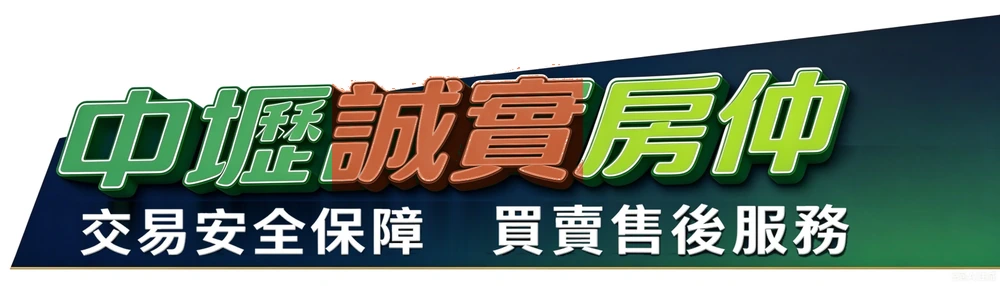
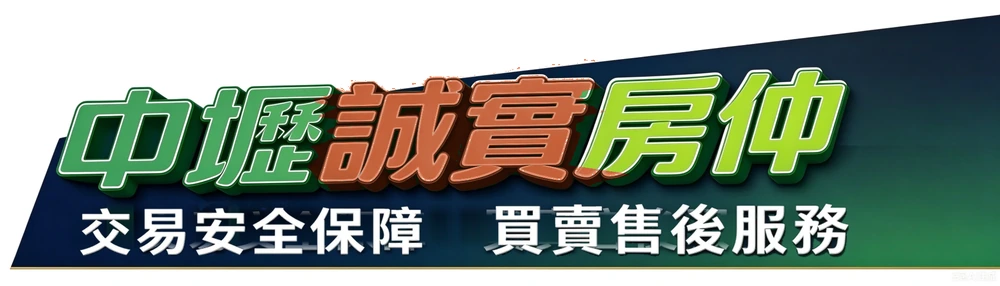
招牌邊界修正（逐列沿字縫換色、副標羽化貼回），團隊照片縮成與店名同高

diff --git a/index.html b/index.html
@@ -42,7 +42,7 @@
   "knowsAbout": ["中古屋買賣", "資產配置", "房屋稅務諮詢", "簡易裝潢"]
 }
 </script>
-<link rel="stylesheet" href="assets/site.css?v=ae3867d4">
+<link rel="stylesheet" href="assets/site.css?v=62b2a8af">
 </head>
 <body class="has-actionbar">
 
@@ -233,7 +233,7 @@
         <p class="team-lead">房子委託給我，同步曝光給團隊 33 家加盟店的買方名單，帶看、成交都更快</p>
       </div>
       <div class="team-grid">
-        <div class="team-col"><b>有愛我的家</b><ul><li class="mine"><img class="brand-logo" src="images/brands/u.png" width="26" height="26" loading="lazy" alt="有巢氏房屋" title="有巢氏房屋">中壢環中加盟店<img class="me-photo" src="images/profile-cut.webp" width="900" height="1350" loading="lazy" alt="林容瑜" title="容瑜在這裡"></li><li><img class="brand-logo" src="images/brands/u.png" width="26" height="26" loading="lazy" alt="有巢氏房屋" title="有巢氏房屋">中壢後站加盟店</li><li><img class="brand-logo" src="images/brands/u.png" width="26" height="26" loading="lazy" alt="有巢氏房屋" title="有巢氏房屋">中壢SOGO加盟店</li><li><img class="brand-logo" src="images/brands/u.png" width="26" height="26" loading="lazy" alt="有巢氏房屋" title="有巢氏房屋">平鎮環南加盟店</li></ul></div>
+        <div class="team-col"><b>有愛我的家</b><ul><li class="mine"><img class="brand-logo" src="images/brands/u.png" width="26" height="26" loading="lazy" alt="有巢氏房屋" title="有巢氏房屋">中壢環中加盟店<img class="me-photo" src="images/me-row.webp" width="101" height="160" loading="lazy" alt="林容瑜" title="容瑜在這裡"></li><li><img class="brand-logo" src="images/brands/u.png" width="26" height="26" loading="lazy" alt="有巢氏房屋" title="有巢氏房屋">中壢後站加盟店</li><li><img class="brand-logo" src="images/brands/u.png" width="26" height="26" loading="lazy" alt="有巢氏房屋" title="有巢氏房屋">中壢SOGO加盟店</li><li><img class="brand-logo" src="images/brands/u.png" width="26" height="26" loading="lazy" alt="有巢氏房屋" title="有巢氏房屋">平鎮環南加盟店</li></ul></div>
         <div class="team-col"><b>內壢我的家</b><ul><li><img class="brand-logo" src="images/brands/u.png" width="26" height="26" loading="lazy" alt="有巢氏房屋" title="有巢氏房屋">內壢環中加盟店</li><li><img class="brand-logo" src="images/brands/y.png" width="26" height="26" loading="lazy" alt="永慶不動產" title="永慶不動產">內壢站前加盟店</li><li><img class="brand-logo" src="images/brands/u.png" width="26" height="26" loading="lazy" alt="有巢氏房屋" title="有巢氏房屋">內壢車站加盟店</li><li><img class="brand-logo" src="images/brands/u.png" width="26" height="26" loading="lazy" alt="有巢氏房屋" title="有巢氏房屋">小檜溪自強加盟店</li><li><img class="brand-logo" src="images/brands/u.png" width="26" height="26" loading="lazy" alt="有巢氏房屋" title="有巢氏房屋">園區龍慈吉富加盟店</li><li><img class="brand-logo" src="images/brands/y.png" width="26" height="26" loading="lazy" alt="永慶不動產" title="永慶不動產">內壢忠孝吉富加盟店</li></ul></div>
         <div class="team-col"><b>桃園我的家</b><ul><li><img class="brand-logo" src="images/brands/y.png" width="26" height="26" loading="lazy" alt="永慶不動產" title="永慶不動產">中路京懋一號加盟店</li><li><img class="brand-logo" src="images/brands/i.png" width="26" height="26" loading="lazy" alt="永義房屋" title="永義房屋">桃園中路吉安加盟店</li><li><img class="brand-logo" src="images/brands/i.png" width="26" height="26" loading="lazy" alt="永義房屋" title="永義房屋">桃園大有寶山加盟店</li><li><img class="brand-logo" src="images/brands/y.png" width="26" height="26" loading="lazy" alt="永慶不動產" title="永慶不動產">桃園藝文同安加盟店</li><li><img class="brand-logo" src="images/brands/t.png" width="26" height="26" loading="lazy" alt="台慶不動產" title="台慶不動產">桃園風禾公園加盟店</li><li><img class="brand-logo" src="images/brands/i.png" width="26" height="26" loading="lazy" alt="永義房屋" title="永義房屋">中正G10捷運加盟店</li><li><img class="brand-logo" src="images/brands/u.png" width="26" height="26" loading="lazy" alt="有巢氏房屋" title="有巢氏房屋">桃園春日莊敬加盟店</li></ul></div>
         <div class="team-col"><b>大中壢我的家</b><ul><li><img class="brand-logo" src="images/brands/y.png" width="26" height="26" loading="lazy" alt="永慶不動產" title="永慶不動產">中壢A22中豐加盟店</li><li><img class="brand-logo" src="images/brands/y.png" width="26" height="26" loading="lazy" alt="永慶不動產" title="永慶不動產">體育園區云賀加盟店</li></ul></div>

diff --git a/listings/ug0972191/index.html b/listings/ug0972191/index.html
@@ -18,7 +18,7 @@
 <link rel="preconnect" href="https://fonts.googleapis.com">
 <link rel="preconnect" href="https://fonts.gstatic.com" crossorigin>
 <link rel="stylesheet" href="https://fonts.googleapis.com/css2?family=Noto+Sans+TC:wght@400;500;700;900&family=Noto+Serif+TC:wght@600;900&display=swap">
-<link rel="stylesheet" href="../../assets/site.css?v=ae3867d4">
+<link rel="stylesheet" href="../../assets/site.css?v=62b2a8af">
 <script type="application/ld+json">{"@context": "https://schema.org", "@type": "RealEstateListing", "name": "近林森國小 7米大面寬大地坪邊間透天", "url": "https://wufengfs95.github.io/linrongyu/listings/ug0972191/", "image": ["https://wufengfs95.github.io/linrongyu/listings/ug0972191/photo-01.jpg", "https://wufengfs95.github.io/linrongyu/listings/ug0972191/photo-02.jpg", "https://wufengfs95.github.io/linrongyu/listings/ug0972191/photo-03.jpg", "https://wufengfs95.github.io/linrongyu/listings/ug0972191/photo-04.jpg", "https://wufengfs95.github.io/linrongyu/listings/ug0972191/photo-05.jpg", "https://wufengfs95.github.io/linrongyu/listings/ug0972191/photo-06.jpg", "https://wufengfs95.github.io/linrongyu/listings/ug0972191/photo-07.jpg", "https://wufengfs95.github.io/linrongyu/listings/ug0972191/photo-08.jpg", "https://wufengfs95.github.io/linrongyu/listings/ug0972191/photo-09.jpg", "https://wufengfs95.github.io/linrongyu/listings/ug0972191/photo-10.jpg", "https://wufengfs95.github.io/linrongyu/listings/ug0972191/photo-11.jpg", "https://wufengfs95.github.io/linrongyu/listings/ug0972191/photo-12.jpg", "https://wufengfs95.github.io/linrongyu/listings/ug0972191/photo-13.jpg", "https://wufengfs95.github.io/linrongyu/listings/ug0972191/photo-14.jpg"], "datePosted": "2026-09-22", "description": "位在中壢後站體育園區週邊，走路就到林森國小。 邊間、7 米大面寬，通風採光都好；門前路寬約 8 米，車子進出方便。 地坪 27.22 坪，4 房 3 衛，空間大好規劃 權狀 35.35 坪，另有增建約 20 坪（以現場為準） 有天然瓦斯管線…", "offers": {"@type": "Offer", "priceCurrency": "TWD", "price": 17880000, "availability": "https://schema.org/InStock"}, "author": {"@type": "RealEstateAgent", "name": "林容瑜", "url": "https://wufengfs95.github.io/linrongyu/", "telephone": "+886-973-263-569"}}</script>
 <script type="application/ld+json">{"@context": "https://schema.org", "@type": "BreadcrumbList", "itemListElement": [{"@type": "ListItem", "position": 1, "name": "首頁", "item": "https://wufengfs95.github.io/linrongyu/"}, {"@type": "ListItem", "position": 2, "name": "我接的案子", "item": "https://wufengfs95.github.io/linrongyu/listings/"}, {"@type": "ListItem", "position": 3, "name": "近林森國小 7米大面寬大地坪邊間透天", "item": "https://wufengfs95.github.io/linrongyu/listings/ug0972191/"}]}</script>
 </head>

diff --git a/listings/ug1139742/index.html b/listings/ug1139742/index.html
@@ -18,7 +18,7 @@
 <link rel="preconnect" href="https://fonts.googleapis.com">
 <link rel="preconnect" href="https://fonts.gstatic.com" crossorigin>
 <link rel="stylesheet" href="https://fonts.googleapis.com/css2?family=Noto+Sans+TC:wght@400;500;700;900&family=Noto+Serif+TC:wght@600;900&display=swap">
-<link rel="stylesheet" href="../../assets/site.css?v=ae3867d4">
+<link rel="stylesheet" href="../../assets/site.css?v=62b2a8af">
 <script type="application/ld+json">{"@context": "https://schema.org", "@type": "RealEstateListing", "name": "湖口老街・湖口火車站 大地坪雙車位美墅", "url": "https://wufengfs95.github.io/linrongyu/listings/ug1139742/", "image": ["https://wufengfs95.github.io/linrongyu/listings/ug1139742/photo-01.jpg", "https://wufengfs95.github.io/linrongyu/listings/ug1139742/photo-02.jpg", "https://wufengfs95.github.io/linrongyu/listings/ug1139742/photo-03.jpg", "https://wufengfs95.github.io/linrongyu/listings/ug1139742/photo-04.jpg", "https://wufengfs95.github.io/linrongyu/listings/ug1139742/photo-05.jpg", "https://wufengfs95.github.io/linrongyu/listings/ug1139742/photo-06.jpg", "https://wufengfs95.github.io/linrongyu/listings/ug1139742/photo-07.jpg", "https://wufengfs95.github.io/linrongyu/listings/ug1139742/photo-08.jpg", "https://wufengfs95.github.io/linrongyu/listings/ug1139742/photo-09.jpg", "https://wufengfs95.github.io/linrongyu/listings/ug1139742/photo-10.jpg", "https://wufengfs95.github.io/linrongyu/listings/ug1139742/photo-11.jpg", "https://wufengfs95.github.io/linrongyu/listings/ug1139742/photo-12.jpg", "https://wufengfs95.github.io/linrongyu/listings/ug1139742/photo-13.jpg"], "datePosted": "2026-09-22", "description": "走路就到湖口老街，離湖口火車站也近，生活機能成熟。 別墅設計、空間寬敞，還有室內雙車位，家裡車多也停得下。 B1 到 4 樓，4 房 4 衛，一家人住得開 4 樓整層開放空間加大露台，可以當起居室或種花 學區湖口國小，附近有湖口公有零售市場…", "offers": {"@type": "Offer", "priceCurrency": "TWD", "price": 10880000, "availability": "https://schema.org/InStock"}, "author": {"@type": "RealEstateAgent", "name": "林容瑜", "url": "https://wufengfs95.github.io/linrongyu/", "telephone": "+886-973-263-569"}}</script>
 <script type="application/ld+json">{"@context": "https://schema.org", "@type": "BreadcrumbList", "itemListElement": [{"@type": "ListItem", "position": 1, "name": "首頁", "item": "https://wufengfs95.github.io/linrongyu/"}, {"@type": "ListItem", "position": 2, "name": "我接的案子", "item": "https://wufengfs95.github.io/linrongyu/listings/"}, {"@type": "ListItem", "position": 3, "name": "湖口老街・湖口火車站 大地坪雙車位美墅", "item": "https://wufengfs95.github.io/linrongyu/listings/ug1139742/"}]}</script>
 </head>

diff --git a/listings/ua0382887/index.html b/listings/ua0382887/index.html
@@ -18,7 +18,7 @@
 <link rel="preconnect" href="https://fonts.googleapis.com">
 <link rel="preconnect" href="https://fonts.gstatic.com" crossorigin>
 <link rel="stylesheet" href="https://fonts.googleapis.com/css2?family=Noto+Sans+TC:wght@400;500;700;900&family=Noto+Serif+TC:wght@600;900&display=swap">
-<link rel="stylesheet" href="../../assets/site.css?v=ae3867d4">
+<link rel="stylesheet" href="../../assets/site.css?v=62b2a8af">
 <script type="application/ld+json">{"@context": "https://schema.org", "@type": "RealEstateListing", "name": "未來捷運站・體育園區・林森國小 電梯3改2房車", "url": "https://wufengfs95.github.io/linrongyu/listings/ua0382887/", "image": ["https://wufengfs95.github.io/linrongyu/listings/ua0382887/photo-01.jpg", "https://wufengfs95.github.io/linrongyu/listings/ua0382887/photo-02.jpg", "https://wufengfs95.github.io/linrongyu/listings/ua0382887/photo-03.jpg", "https://wufengfs95.github.io/linrongyu/listings/ua0382887/photo-04.jpg", "https://wufengfs95.github.io/linrongyu/listings/ua0382887/photo-05.jpg", "https://wufengfs95.github.io/linrongyu/listings/ua0382887/photo-06.jpg", "https://wufengfs95.github.io/linrongyu/listings/ua0382887/photo-07.jpg", "https://wufengfs95.github.io/linrongyu/listings/ua0382887/photo-08.jpg", "https://wufengfs95.github.io/linrongyu/listings/ua0382887/photo-09.jpg", "https://wufengfs95.github.io/linrongyu/listings/ua0382887/photo-10.jpg", "https://wufengfs95.github.io/linrongyu/listings/ua0382887/photo-11.jpg"], "datePosted": "2026-09-22", "description": "位在中壢後站體育園區週邊，走路就到林森國小，未來捷運站也在附近。 6 樓視野好、採光佳，社區門口 8 米路，車子進出方便。 電梯大樓，坡道平面車位在 B1 原本規劃 3 房，預售時建商客變成 2 大房，現況另有 1 間木隔間 一手屋主、沒有…", "offers": {"@type": "Offer", "priceCurrency": "TWD", "price": 9380000, "availability": "https://schema.org/InStock"}, "author": {"@type": "RealEstateAgent", "name": "林容瑜", "url": "https://wufengfs95.github.io/linrongyu/", "telephone": "+886-973-263-569"}}</script>
 <script type="application/ld+json">{"@context": "https://schema.org", "@type": "BreadcrumbList", "itemListElement": [{"@type": "ListItem", "position": 1, "name": "首頁", "item": "https://wufengfs95.github.io/linrongyu/"}, {"@type": "ListItem", "position": 2, "name": "我接的案子", "item": "https://wufengfs95.github.io/linrongyu/listings/"}, {"@type": "ListItem", "position": 3, "name": "未來捷運站・體育園區・林森國小 電梯3改2房車", "item": "https://wufengfs95.github.io/linrongyu/listings/ua0382887/"}]}</script>
 </head>

diff --git a/listings/ug1036209/index.html b/listings/ug1036209/index.html
@@ -18,7 +18,7 @@
 <link rel="preconnect" href="https://fonts.googleapis.com">
 <link rel="preconnect" href="https://fonts.gstatic.com" crossorigin>
 <link rel="stylesheet" href="https://fonts.googleapis.com/css2?family=Noto+Sans+TC:wght@400;500;700;900&family=Noto+Serif+TC:wght@600;900&display=swap">
-<link rel="stylesheet" href="../../assets/site.css?v=ae3867d4">
+<link rel="stylesheet" href="../../assets/site.css?v=62b2a8af">
 <script type="application/ld+json">{"@context": "https://schema.org", "@type": "RealEstateListing", "name": "近未來平鎮火車站・中悅桂冠 大空間住辦＋平面車位", "url": "https://wufengfs95.github.io/linrongyu/listings/ug1036209/", "image": ["https://wufengfs95.github.io/linrongyu/listings/ug1036209/photo-01.jpg", "https://wufengfs95.github.io/linrongyu/listings/ug1036209/photo-02.jpg", "https://wufengfs95.github.io/linrongyu/listings/ug1036209/photo-03.jpg", "https://wufengfs95.github.io/linrongyu/listings/ug1036209/photo-04.jpg", "https://wufengfs95.github.io/linrongyu/listings/ug1036209/photo-05.jpg", "https://wufengfs95.github.io/linrongyu/listings/ug1036209/photo-06.jpg", "https://wufengfs95.github.io/linrongyu/listings/ug1036209/photo-07.jpg", "https://wufengfs95.github.io/linrongyu/listings/ug1036209/photo-08.jpg", "https://wufengfs95.github.io/linrongyu/listings/ug1036209/photo-09.jpg"], "datePosted": "2026-09-22", "description": "室內空間大、隔間少，當住家或工作室都好用。 汽車位就在電梯口旁，下車就能搭電梯。 附近是未來平鎮火車站，重大建設陸續啟動。 電梯大樓、警衛管理，住得安心 門前道路寬約 20 米、雙向車道，車流順暢 目前出租中，適合置產收租 管理費每月 2,…", "offers": {"@type": "Offer", "priceCurrency": "TWD", "price": 12480000, "availability": "https://schema.org/InStock"}, "author": {"@type": "RealEstateAgent", "name": "林容瑜", "url": "https://wufengfs95.github.io/linrongyu/", "telephone": "+886-973-263-569"}}</script>
 <script type="application/ld+json">{"@context": "https://schema.org", "@type": "BreadcrumbList", "itemListElement": [{"@type": "ListItem", "position": 1, "name": "首頁", "item": "https://wufengfs95.github.io/linrongyu/"}, {"@type": "ListItem", "position": 2, "name": "我接的案子", "item": "https://wufengfs95.github.io/linrongyu/listings/"}, {"@type": "ListItem", "position": 3, "name": "近未來平鎮火車站・中悅桂冠 大空間住辦＋平面車位", "item": "https://wufengfs95.github.io/linrongyu/listings/ug1036209/"}]}</script>
 </head>

diff --git a/listings/hg0183320/index.html b/listings/hg0183320/index.html
@@ -18,7 +18,7 @@
 <link rel="preconnect" href="https://fonts.googleapis.com">
 <link rel="preconnect" href="https://fonts.gstatic.com" crossorigin>
 <link rel="stylesheet" href="https://fonts.googleapis.com/css2?family=Noto+Sans+TC:wght@400;500;700;900&family=Noto+Serif+TC:wght@600;900&display=swap">
-<link rel="stylesheet" href="../../assets/site.css?v=ae3867d4">
+<link rel="stylesheet" href="../../assets/site.css?v=62b2a8af">
 <script type="application/ld+json">{"@context": "https://schema.org", "@type": "RealEstateListing", "name": "近青埔・中壢市區・中央大學 千坪大地坪農地", "url": "https://wufengfs95.github.io/linrongyu/listings/hg0183320/", "image": ["https://wufengfs95.github.io/linrongyu/listings/hg0183320/photo-01.jpg", "https://wufengfs95.github.io/linrongyu/listings/hg0183320/photo-02.jpg", "https://wufengfs95.github.io/linrongyu/listings/hg0183320/photo-03.jpg", "https://wufengfs95.github.io/linrongyu/listings/hg0183320/photo-04.jpg", "https://wufengfs95.github.io/linrongyu/listings/hg0183320/photo-05.jpg"], "datePosted": "2026-09-22", "description": "1,733 坪大面積農地，面寬約 64～111 米、深度約 52～75 米，地勢平坦、水源豐富。 位在中壢區內厝里，往中壢市區、中央大學、青埔都方便。 特定農業區（農牧用地），適合自用或投資 旁邊有排水溝，排水好、不容易積水", "offers": {"@type": "Offer", "priceCurrency": "TWD", "price": 39980000, "availability": "https://schema.org/InStock"}, "author": {"@type": "RealEstateAgent", "name": "林容瑜", "url": "https://wufengfs95.github.io/linrongyu/", "telephone": "+886-973-263-569"}}</script>
 <script type="application/ld+json">{"@context": "https://schema.org", "@type": "BreadcrumbList", "itemListElement": [{"@type": "ListItem", "position": 1, "name": "首頁", "item": "https://wufengfs95.github.io/linrongyu/"}, {"@type": "ListItem", "position": 2, "name": "我接的案子", "item": "https://wufengfs95.github.io/linrongyu/listings/"}, {"@type": "ListItem", "position": 3, "name": "近青埔・中壢市區・中央大學 千坪大地坪農地", "item": "https://wufengfs95.github.io/linrongyu/listings/hg0183320/"}]}</script>
 </head>

diff --git a/listings/ha0106526/index.html b/listings/ha0106526/index.html
@@ -18,7 +18,7 @@
 <link rel="preconnect" href="https://fonts.googleapis.com">
 <link rel="preconnect" href="https://fonts.gstatic.com" crossorigin>
 <link rel="stylesheet" href="https://fonts.googleapis.com/css2?family=Noto+Sans+TC:wght@400;500;700;900&family=Noto+Serif+TC:wght@600;900&display=swap">
-<link rel="stylesheet" href="../../assets/site.css?v=ae3867d4">
+<link rel="stylesheet" href="../../assets/site.css?v=62b2a8af">
 <script type="application/ld+json">{"@context": "https://schema.org", "@type": "RealEstateListing", "name": "近向陽農場 地勢平坦方正美農地", "url": "https://wufengfs95.github.io/linrongyu/listings/ha0106526/", "image": ["https://wufengfs95.github.io/linrongyu/listings/ha0106526/photo-01.jpg", "https://wufengfs95.github.io/linrongyu/listings/ha0106526/photo-02.jpg", "https://wufengfs95.github.io/linrongyu/listings/ha0106526/photo-03.jpg"], "datePosted": "2026-09-22", "description": "605 坪方正農地，面寬約 19.6 米、深度約 96 米，地勢平坦，好規劃、利用率高。 旁邊有排水溝，排水好、不容易積水。 特定農業區，適合自用耕作或置產 離觀音區向陽農場很近", "offers": {"@type": "Offer", "priceCurrency": "TWD", "price": 9680000, "availability": "https://schema.org/InStock"}, "author": {"@type": "RealEstateAgent", "name": "林容瑜", "url": "https://wufengfs95.github.io/linrongyu/", "telephone": "+886-973-263-569"}}</script>
 <script type="application/ld+json">{"@context": "https://schema.org", "@type": "BreadcrumbList", "itemListElement": [{"@type": "ListItem", "position": 1, "name": "首頁", "item": "https://wufengfs95.github.io/linrongyu/"}, {"@type": "ListItem", "position": 2, "name": "我接的案子", "item": "https://wufengfs95.github.io/linrongyu/listings/"}, {"@type": "ListItem", "position": 3, "name": "近向陽農場 地勢平坦方正美農地", "item": "https://wufengfs95.github.io/linrongyu/listings/ha0106526/"}]}</script>
 </head>

diff --git a/listings/index.html b/listings/index.html
@@ -18,7 +18,7 @@
 <link rel="preconnect" href="https://fonts.googleapis.com">
 <link rel="preconnect" href="https://fonts.gstatic.com" crossorigin>
 <link rel="stylesheet" href="https://fonts.googleapis.com/css2?family=Noto+Sans+TC:wght@400;500;700;900&family=Noto+Serif+TC:wght@600;900&display=swap">
-<link rel="stylesheet" href="../assets/site.css?v=ae3867d4">
+<link rel="stylesheet" href="../assets/site.css?v=62b2a8af">
 <script type="application/ld+json">{"@context": "https://schema.org", "@type": "ItemList", "name": "林容瑜的物件", "itemListElement": [{"@type": "ListItem", "position": 1, "url": "https://wufengfs95.github.io/linrongyu/listings/ua0382887/"}, {"@type": "ListItem", "position": 2, "url": "https://wufengfs95.github.io/linrongyu/listings/ug0972191/"}, {"@type": "ListItem", "position": 3, "url": "https://wufengfs95.github.io/linrongyu/listings/ug1036209/"}, {"@type": "ListItem", "position": 4, "url": "https://wufengfs95.github.io/linrongyu/listings/ug1139742/"}, {"@type": "ListItem", "position": 5, "url": "https://wufengfs95.github.io/linrongyu/listings/ha0106526/"}, {"@type": "ListItem", "position": 6, "url": "https://wufengfs95.github.io/linrongyu/listings/hg0183320/"}]}</script>
 </head>
 <body>

diff --git a/school-map/index.html b/school-map/index.html
@@ -18,7 +18,7 @@
 <link rel="preconnect" href="https://fonts.googleapis.com">
 <link rel="preconnect" href="https://fonts.gstatic.com" crossorigin>
 <link rel="stylesheet" href="https://fonts.googleapis.com/css2?family=Noto+Sans+TC:wght@400;500;700;900&family=Noto+Serif+TC:wght@600;900&display=swap">
-<link rel="stylesheet" href="../assets/site.css?v=ae3867d4">
+<link rel="stylesheet" href="../assets/site.css?v=62b2a8af">
 <link rel="stylesheet" href="https://cdnjs.cloudflare.com/ajax/libs/leaflet/1.9.4/leaflet.min.css">
 <script type="application/ld+json">{"@context": "https://schema.org", "@type": "WebApplication", "name": "桃園市國中小學區地圖", "url": "https://wufengfs95.github.io/linrongyu/school-map/", "applicationCategory": "ReferenceApplication", "operatingSystem": "Web", "isAccessibleForFree": true, "inLanguage": "zh-Hant", "description": "輸入地址或點地圖，查桃園市各里的國小、國中學區（115 學年度）。", "author": {"@type": "RealEstateAgent", "name": "林容瑜", "url": "https://wufengfs95.github.io/linrongyu/"}}</script>
 </head>

diff --git a/value/index.html b/value/index.html
@@ -18,7 +18,7 @@
 <link rel="preconnect" href="https://fonts.googleapis.com">
 <link rel="preconnect" href="https://fonts.gstatic.com" crossorigin>
 <link rel="stylesheet" href="https://fonts.googleapis.com/css2?family=Noto+Sans+TC:wght@400;500;700;900&family=Noto+Serif+TC:wght@600;900&display=swap">
-<link rel="stylesheet" href="../assets/site.css?v=ae3867d4">
+<link rel="stylesheet" href="../assets/site.css?v=62b2a8af">
 <script type="application/ld+json">{"@context": "https://schema.org", "@type": "WebApplication", "name": "桃園房屋估價・買貴鑑定", "url": "https://wufengfs95.github.io/linrongyu/value/", "applicationCategory": "FinanceApplication", "operatingSystem": "Web", "isAccessibleForFree": true, "inLanguage": "zh-Hant", "description": "用內政部實價登錄成交資料，30 秒估出桃園市房屋的合理價格區間，並可驗證成交價有沒有買貴。", "author": {"@type": "RealEstateAgent", "name": "林容瑜", "url": "https://wufengfs95.github.io/linrongyu/", "telephone": "+886-973-263-569"}}</script>
 </head>
 <body>

diff --git a/trash/index.html b/trash/index.html
@@ -18,7 +18,7 @@
 <link rel="preconnect" href="https://fonts.googleapis.com">
 <link rel="preconnect" href="https://fonts.gstatic.com" crossorigin>
 <link rel="stylesheet" href="https://fonts.googleapis.com/css2?family=Noto+Sans+TC:wght@400;500;700;900&family=Noto+Serif+TC:wght@600;900&display=swap">
-<link rel="stylesheet" href="../assets/site.css?v=ae3867d4">
+<link rel="stylesheet" href="../assets/site.css?v=62b2a8af">
 <script type="application/ld+json">{"@context": "https://schema.org", "@type": "WebApplication", "name": "桃園垃圾車時間查詢", "url": "https://wufengfs95.github.io/linrongyu/trash/", "applicationCategory": "ReferenceApplication", "operatingSystem": "Web", "isAccessibleForFree": true, "inLanguage": "zh-Hant", "description": "輸入路名或里名，查桃園市 13 區垃圾車、資源回收車的清運時間與收運日。", "author": {"@type": "RealEstateAgent", "name": "林容瑜", "url": "https://wufengfs95.github.io/linrongyu/"}}</script>
 </head>
 <body>

diff --git a/assets/site.css b/assets/site.css
@@ -637,8 +637,8 @@ section.sm{padding-block:8px 48px}
 .team-legend .brand-logo{width:30px;height:30px}
 .team-legend-note{width:100%;text-align:center;font-size:14px}
 .team-col li.mine{color:var(--ink);font-weight:800;font-size:1.12em}
-.me-photo{height:38px;width:auto;flex:none;cursor:pointer;transition:transform .25s ease;transform-origin:left bottom}
-.me-photo:hover,.me-photo:focus{transform:scale(4.5);position:relative;z-index:6}
+.me-photo{height:24px;width:auto;flex:none;cursor:pointer;transition:transform .25s ease;transform-origin:left bottom}
+.me-photo:hover,.me-photo:focus{transform:scale(7);position:relative;z-index:6}
 
 .team-col li.mine .here{display:inline-block;margin-left:6px;font-size:15px;font-weight:700;color:#fff;background:var(--brick);border-radius:999px;padding:2px 10px}
 .team-note{margin:22px 0 0;font-size:clamp(15px,1.8vw,22px);color:var(--muted);text-align:center;white-space:nowrap}
